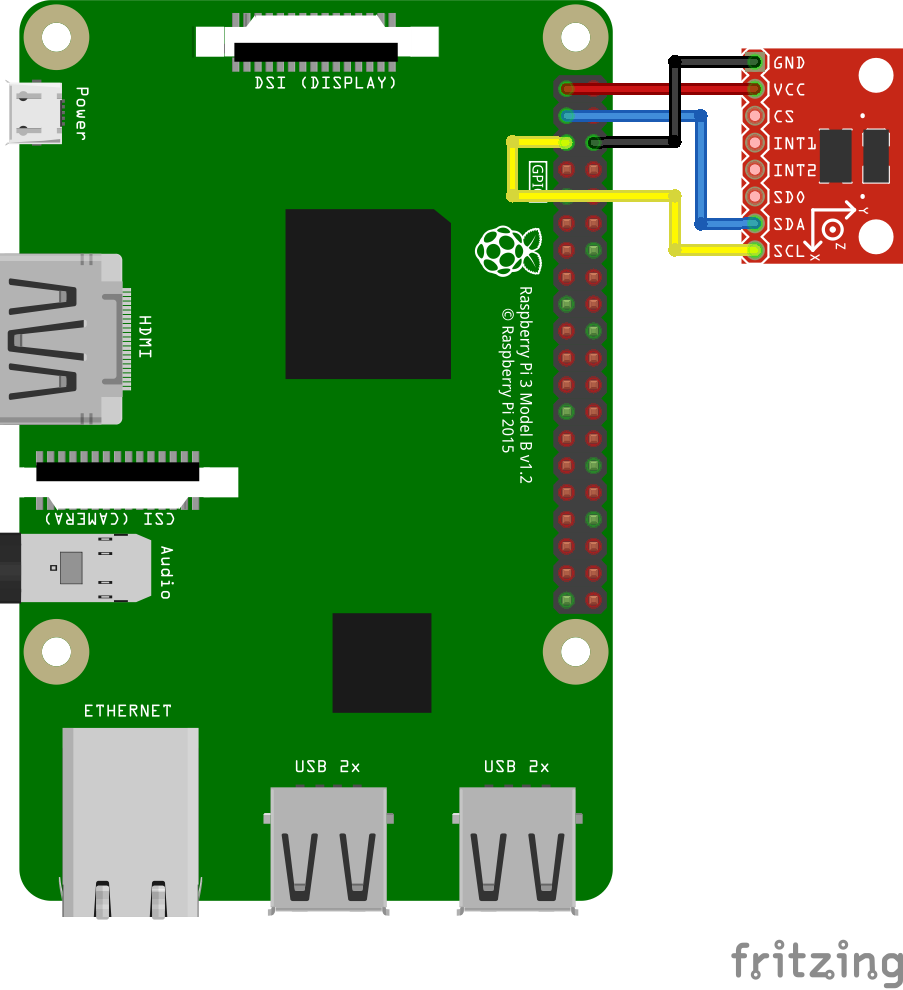
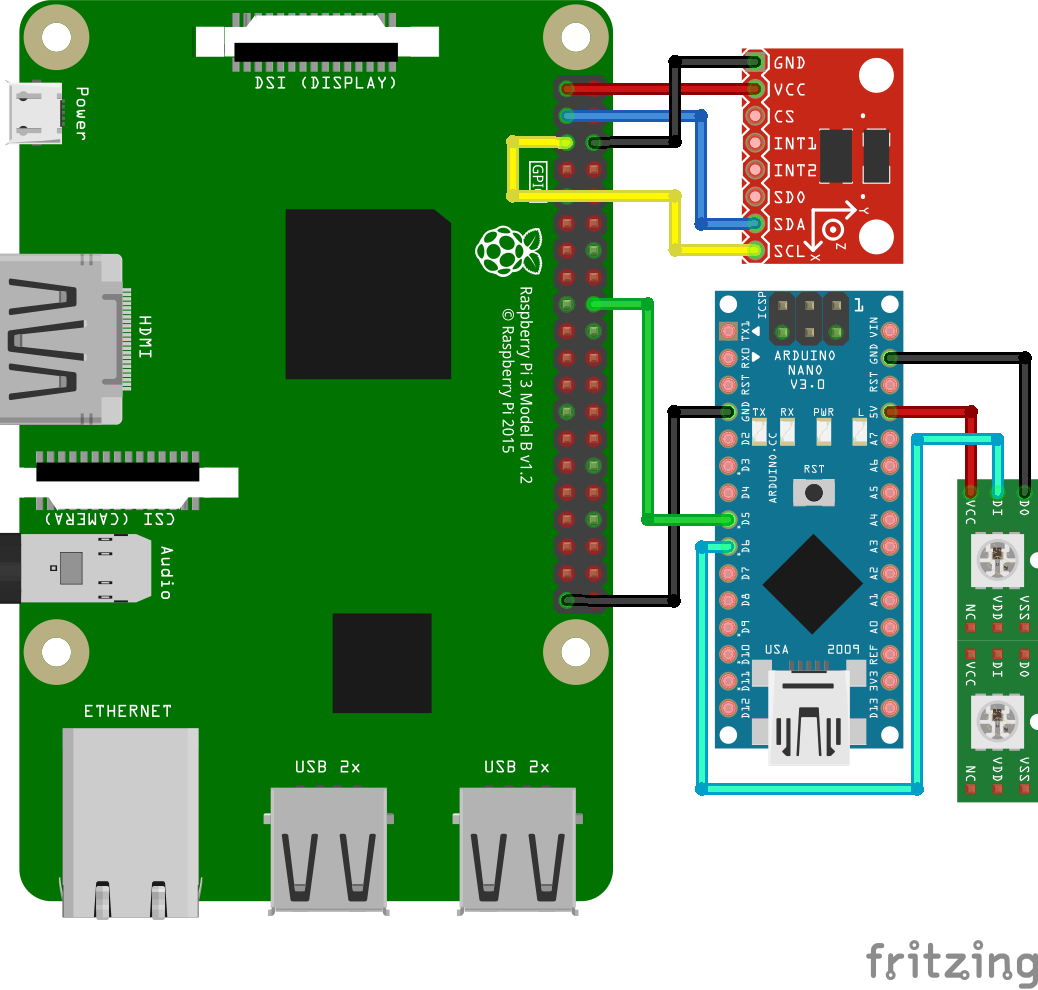
Input pin from RPi now increase or decrease heartrate

diff --git a/play.py b/play.py
@@ -9,10 +9,12 @@ from time import sleep
 import time, sys
 from pygame import mixer
 
+import RPi.GPIO as GPIO # always needed with RPi.GPIO  
+
 ''' Version info''' 
 
-print "Version: 0.0.1"
-print "Last updated: April 17, 2017"
+print "Version: 0.0.2"
+print "Last updated: April 18, 2017"
 
 
 # Power management registers
@@ -77,6 +79,14 @@ timer_current = 0 ;
 setting_move_amount = 10 
 setting_move_timer  = 10 
 
+print "Setting up LEDs "
+
+GPIO.cleanup()  
+GPIO.setmode(GPIO.BCM)  # choose BCM or BOARD numbering schemes. I use BCM  
+GPIO.setup(24, GPIO.OUT)
+GPIO.output(24, GPIO.LOW)
+
+
 print "Starting..."
 
 while True:
@@ -107,9 +117,14 @@ while True:
         if( isplaying == False ):
             mixer.music.play(-1)
             isplaying = True 
+        ''' Start speeding up the LEDs'''
+        GPIO.output(24, GPIO.HIGH) 
+            
     else:
-        mixer.music.stop()
+        mixer.music.stop()       
         isplaying = False 
+        ''' Slow down the LEDs'''
+        GPIO.output(24, GPIO.LOW) 
 
     ''' print "x: ", cur_rot_x, ", y: ", cur_rot_y, ", timer: ", timer_last_move - timer_current '''
 
